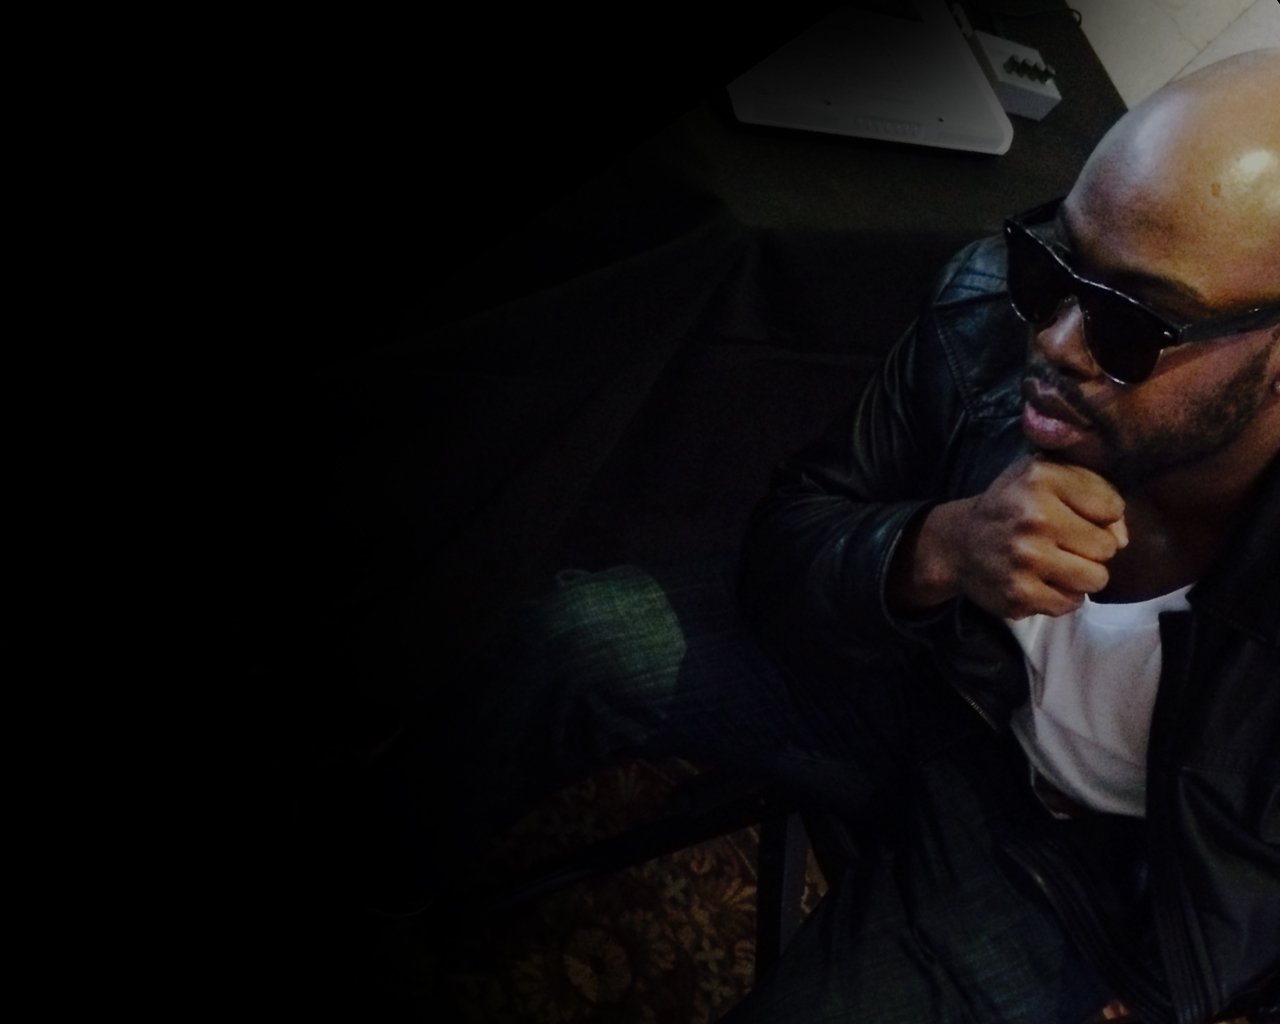
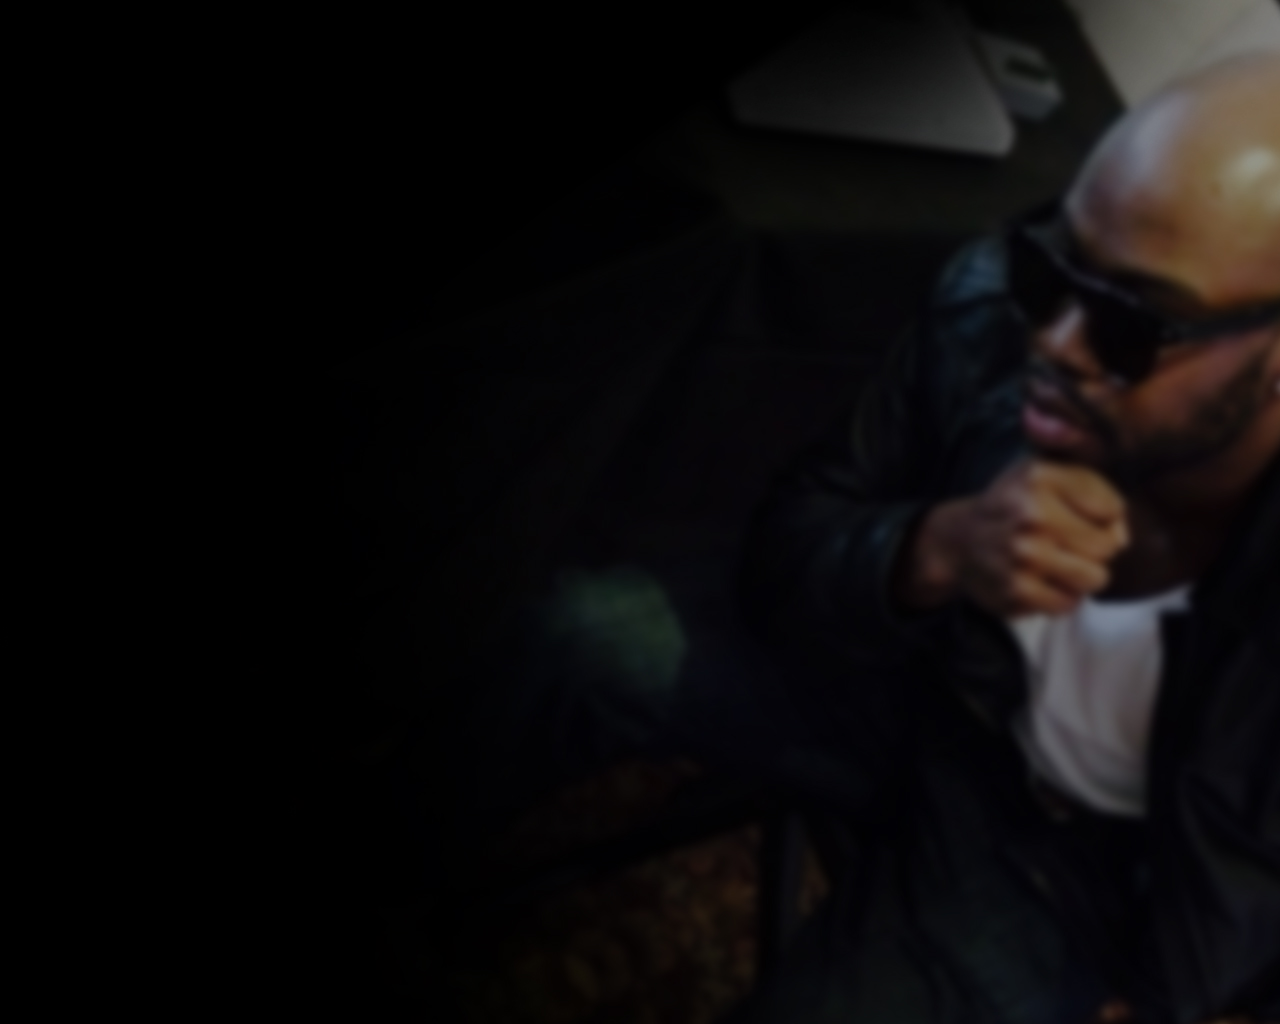
site tweaks

diff --git a/index.html b/index.html
@@ -7,7 +7,7 @@
    <!--- basic page needs
    ================================================== -->
    <meta charset="utf-8">
-	<title>S K Y H I G H</title>
+	<title>I AM | S K Y H I G H | .COM</title>
 	<meta name="description" content="">  
 	<meta name="author" content="">
 
@@ -27,7 +27,7 @@
 
    <!-- favicons
 	================================================== -->
-	<link rel="shortcut icon" href="favicon.png" >
+	<!--<link rel="shortcut icon" href="favicon.png" >-->
 
 </head>
 
@@ -62,10 +62,11 @@
 	      </nav> <!-- end #nav-wrap -->
 
 	      <ul class="header-social">
-	        	<li><a href="#"><i class="fa fa-facebook"></i></a></li>
-	        	<li><a href="#"><i class="fa fa-twitter"></i></a></li>
-            <li><a href="#"><i class="fa fa-soundcloud"></i></a></li>
-            <li><a href="#"><i class="fa fa-youtube"></i></a></li>
+	        	<li><a href="www.facebook.com/DanielSkyHighMcClainMusic"><i class="fa fa-facebook"></i></a></li>
+	        	<li><a href="www.twitter.com/SkyHighMcClain"><i class="fa fa-twitter"></i></a></li>
+            <li><a href="www.soundcloud.com/danielskyhighmcclainmusic"><i class="fa fa-soundcloud"></i></a></li>
+            <li><a href="www.youtube.com/SkyHighMcClain"><i class="fa fa-youtube"></i></a></li>
+            <li><a href="www.instagram.com/iamDanielSkyHighMcClain"><i class="fa fa-instagram"></i></a></li>
 	      </ul>      
 
 	   </div>
@@ -93,7 +94,7 @@
                   "LIFE IS ABOUT MOMENTS: DON'T WAIT FOR THEM. CREATE THEM!"
 								</h1>	
 									
-                <h3 class=""><i>"Walk in your purpose and remove doubts &amp; fears about being who you know God blessed you to be." - Daniel Skyhigh McClain</i></h3>         
+                <h3 class=""><i>"Walk in your purpose and remove doubts &amp; fears about being who you know God blessed you to be."<br> - Daniel Skyhigh McClain</i></h3>         
 
 							</div>						
 					   </li>
@@ -104,7 +105,7 @@
 								<h1 class="">Take a look at <a class="smoothscroll" href="#portfolio" title="portfolio" >new videos</a> or 
 								<a class="smoothscroll" href="#contact" title="contact us">get in touch</a> for booking information.</h1>
 
-								<h3 class=""><i>“It seemed so surreal at first considering that I was being acknowledged by Legends, but it’s definitely a humbling feeling and I will never take that for granted.” - Daniel Skyhigh McClain</i></h3>			   
+								<h3 class=""><i>“It seemed so surreal at first considering that I was being acknowledged by Legends, but it’s definitely a humbling feeling and I will never take that for granted.”<br> - Daniel Skyhigh McClain</i></h3>			   
 							</div>
 					   </li>					              
 
@@ -225,7 +226,8 @@
          <div id="modal-02" class="popup-modal mfp-hide">
 
 		      <div class="media">
-            <iframe width="560" height="315" src="https://www.youtube.com/embed/TtiKfGnPRRE" frameborder="0" allowfullscreen></iframe>	      	
+            <iframe width="560" height="315" src="https://www.youtube.com/embed/TgFR8kfMn8M" frameborder="0" allowfullscreen></iframe>          
+
           </div>
 
           <div class="link-box">            	
@@ -237,7 +239,7 @@
          <div id="modal-03" class="popup-modal mfp-hide">
 
 		      <div class="media">
-            <iframe width="560" height="315" src="https://www.youtube.com/embed/TgFR8kfMn8M" frameborder="0" allowfullscreen></iframe>	      	
+            <iframe width="560" height="315" src="https://www.youtube.com/embed/TtiKfGnPRRE" frameborder="0" allowfullscreen></iframe>          
           </div>
 
             <div class="link-box">
@@ -278,8 +280,7 @@
 	         <hr />     	    
 
 	         <p>
-            Currently residing in Atlanta, Daniel SkyHigh McClain is determined to take the music industry by storm. Making occasional appearances in music showcases and open mic events, Daniel is focusing on creating his big mark on the industry; a mark that will continue to allow him to stand out and create a buzz in the community where people inquire “who is he?” With the release of his single <a href="https://itunes.apple.com/us/album/your-love-is-single/id968395962">“Your Love Is”</a>, Daniel SkyHigh McClain is anticipating a moment of his own to share with the world what “purpose” really means to him. 
-	         </p>
+            Sincere Rhythm &amp; Blues recording artist's tend to bring a sense of sensuality and urgency to their audiences, and Daniel SkyHigh McClain, a Boston, Ma. currently residing in Atlanta, Ga., is determined to do so by taking the music industry by storm in contributing his unique style to the smooth genre that is R&amp;B/Soul. He's earned himself a spotlight as he's written for and sang with respected pioneers such as The Legendary Earth Wind &amp; Fire, recording artist Blu Cantrell, music mogul Ronnie Garrett, and Mr. Tyler Perry. With the release of his single <a href="https://itunes.apple.com/us/album/your-love-is-single/id968395962">“Your Love Is”</a>, written by him and produced by Deshawn "Big D" Hendrickson (Keyshia Cole, Blu Cantrell), Daniel SkyHigh McClain is anticipating a moment of his own to share with the world what music really means to him. 
 
 	      </div> <!-- end section-head -->
 
@@ -288,95 +289,22 @@
    </section> <!-- end about -->  
 
 
-   <!-- contact
-   ================================================== -->
-   <section id="contact">
-
-   	<div class="row section-head">
-
-   		<div class="twelve columns">
-
-	         <h1>Get In Touch<span>.</span></h1>
-
-	         <hr />	        
-
-	      </div>
-
-      </div> <!-- end section-head -->
-
-      <div class="row">
-      	
-      	<div id="contact-form" class="six columns tab-whole left">
-
-            <!-- form -->
-            <form name="contactForm" id="contactForm" method="post" action=""  >
-      			<fieldset>
-
-                  <div class="group">
- 						   <input name="contactName" type="text" id="contactName" placeholder="Name" value="" minLength="2" required />
-                  </div>
-                  <div>
-	      			   <input name="contactEmail" type="email" id="contactEmail" placeholder="Email" value="" required />
-	               </div>
-                  <div>
-	     				   <input name="contactSubject" type="text" id="contactSubject" placeholder="Subject"  value="" />
-	               </div>                       
-                  <div>
-	                 	<textarea name="contactMessage"  id="contactMessage" placeholder="message" rows="10" cols="50" required ></textarea>
-	               </div>                      
-                  <div>
-                     <button class="submitform">Submit</button>
-                     <div id="submit-loader">
-                        <div class="text-loader">Sending...</div>                             
-       				      <div class="s-loader">
-								  	<div class="bounce1"></div>
-								  	<div class="bounce2"></div>
-								  	<div class="bounce3"></div>
-								</div>
-							</div>
-                  </div>
-
-      			</fieldset>
-      		</form> <!-- Form End -->
-
-            <!-- contact-warning -->
-            <div id="message-warning"></div>
-            <!-- contact-success -->
-      		<div id="message-success">
-               <i class="icon-ok"></i>Your message was sent, thank you!<br />
-      		</div>
-
-         </div>
-
-         <div class="six columns tab-whole right">
-
-            <p class="lead">Sed ut perspiciatis unde omnis iste natus error sit voluptatem accusantium doloremque laudantium, totam rem aperiam, eaque ipsa quae ab illo inventore veritatis et quasi architecto beatae vitae dicta sunt explicabo. 
-
-           <h3>Booking Info:</h3>
-			   <p>Phone: (000) 555 1212<br>
-			   	Email: (000) 555 0100<br>
-			   </p>
-               	
-         </div>     	
-
-      </div> <!-- end row -->     
-
-   </section>  <!-- end contact -->
-
-
    <!-- Footer
    ================================================== -->
-   <footer>
+   <footer id="contact">
 
       <div class="row">  
 
       	<div class="twelve columns content group">
+          <h1>FOLLOW<span>.</span></h1>
+
       		
 				<ul class="social-links">
-               <li><a href="#"><i class="fa fa-facebook-square"></i></a></li>
-               <li><a href="#"><i class="fa fa-twitter-square"></i></a></li>
-               <li><a href="#"><i class="fa fa-soundcloud"></i></a></li>               
-               <li><a href="#"><i class="fa fa-youtube-play"></i></a></li>
+               <li><a href="www.facebook.com/DanielSkyHighMcClainMusic"><i class="fa fa-facebook-square"></i></a></li>
+               <li><a href="www.twitter.com/SkyHighMcClain"><i class="fa fa-twitter-square"></i></a></li>
+               <li><a href="www.soundcloud.com/danielskyhighmcclainmusic"><i class="fa fa-soundcloud"></i></a></li>               
+               <li><a href="www.youtube.com/SkyHighMcClain"><i class="fa fa-youtube-play"></i></a></li>
+               <li><a href="www.instagram.com/iamDanielSkyHighMcClain"><i class="fa fa-instagram"></i></a></li>
             </ul>
 
             <hr />
@@ -388,9 +316,6 @@
 <!--        	<li>Design by <a href="http://know.vision">Know Visicn LLC.</a>.</li>-->
          </ul>
 
-         <div id="go-top">
-            <a class="smoothscroll" title="Back to Top" href="#hero">Back to Top<i class="fa fa-angle-up"></i></a>
-         </div>
 
       </div> <!-- end row -->
 

diff --git a/css/main.css b/css/main.css
@@ -560,7 +560,7 @@ hr {
 }
 
 /* sections */
-.section-head h1 {
+.section-head h1, footer h1 {
 	font: 15px/30px "raleway-heavy", sans-serif;
 	text-transform: uppercase;
 	letter-spacing: 2.5px;
@@ -569,7 +569,7 @@ hr {
 	margin-top: 18px;
 }
 
-.section-head h1 span {
+.section-head h1 span, footer h1 spanf {
 	color: #fdc501;
 	position: relative;
 	left: 3px;
@@ -668,7 +668,7 @@ header .logo a {
 	width: 114px;
 	height: 66px;
 	background: url("../images/logoK@2x.png") no-repeat center;
-	background-size: 61px 14px;
+	background-size: 122px 51px;
 }
 
 /* header social */
@@ -967,7 +967,7 @@ ul#nav li.current a:after {
 /* =================================================================== */
 
 #hero {
-	background: #000000 url(../images/hero-bkg.jpg) no-repeat center;
+	background: #000000 url(../images/hero-bkg2.jpg) no-repeat center;
 	-webkit-background-size: cover;
 	-moz-background-size: cover;
 	background-size: cover;
@@ -1734,12 +1734,15 @@ ul#nav li.current a:after {
 }
 
 
-/* 
+/* `
 /* 10. =about
 /* =================================================================== */
 
 #about {
-	background: #111417;
+	background: #000000 url(../images/hero-bkg.jpg) no-repeat center;
+	-webkit-background-size: cover;
+	-moz-background-size: cover;
+	background-size: cover;
 	padding-top: 120px;
 	padding-bottom: 120px;
 	border-bottom: 1px solid #15191d;
@@ -2440,6 +2443,7 @@ footer {
 	position: relative;
 	color: rgba(255, 255, 255, 0.15);
 }
+footer h1 {text-align: center;}
 
 footer .content {
 	margin-bottom: 12px;
